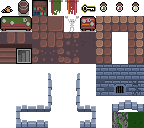
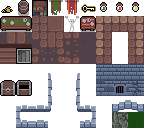
fixed shop, added ShopMan - GOBLIN

Changed region(s): [[0.0, 0.625, 0.2222, 0.75]]

diff --git a/Resources/maps/box.tsx b/Resources/maps/box.tsx
@@ -1,0 +1,4 @@
+<?xml version="1.0" encoding="UTF-8"?>
+<tileset version="1.4" tiledversion="1.4.2" name="box" tilewidth="16" tileheight="16" tilecount="2" columns="2">
+ <image source="box.png" width="32" height="16"/>
+</tileset>

diff --git a/Classes/Store.cpp b/Classes/Store.cpp
@@ -13,9 +13,60 @@ bool Store::init(TMXTiledMap* map, int countMap) {
 
 	store = TMXTiledMap::create("maps/store.tmx");
 	store->setScale(3.0);
-	store->setAnchorPoint(Vec2(1, 1));
-	store->setPosition(Vec2(posMap.x + (sizeMap.width / 2 * 60), posMap.y + (sizeMap.height / 2 * 60)));
+	store->setPosition(Vec2(posMap.x + ((sizeMap.width / 2 - 2) * 60), posMap.y + ((sizeMap.height / 2 + 1) * 60)));
 
 	this->addChild(store);
+
+	shopMan = new Sprite();
+	shopMan->initWithFile("NPC/store/shopMan.png");
+	shopMan->getTexture()->setAliasTexParameters();
+	shopMan->setPosition(Vec2(store->getPosition().x + 100, store->getPosition().y + 100));
+	shopMan->setScale(2.5);
+	this->addChild(shopMan);
+
+	createTray(store, 3);
+
 	return true;
+}
+
+void Store::createTray(TMXTiledMap* storeMap, int count) {
+	auto posMap = storeMap->getPosition();
+	for (int i = 0; i < count; i++) {
+		tray = new Sprite();
+		tray->initWithFile("NPC/store/table.png");
+		tray->getTexture()->setAliasTexParameters();
+		tray->setScale(3.0);
+		tray->setPosition(Vec2((posMap.x + i * 120) - 30, posMap.y - 80));
+		this->addChild(tray);
+
+		auto edgeNode = Node::create();
+		edgeNode->setScale(2.0);
+		edgeNode->setAnchorPoint(Vec2(0.5, 0.5));
+		edgeNode->setPosition(tray->getPosition());
+		auto body = PhysicHelper::createWallPhysicBody(edgeNode, Size(tray->getContentSize()));
+		this->addChild(edgeNode);
+
+		Item* item;
+		if (rand() % 2) {
+			std::map<std::string, int> stats{
+			{"healing", -20 + rand() % 40}
+			};
+			item = Item::create(Item::POTION, "Potion", "Super potion", "res/items/potion.png", stats);
+			item->setColor(Color3B(rand() % 255, rand() % 255, rand() % 255));
+		}
+		else {
+			std::map<std::string, int> stats{
+			{"damage", 1 + rand() % 40},
+			{"speed", 1 + rand() % 8}
+			};
+			item = Item::create(Item::WEAPON, "Sword", "Super sword", "res/weapon/sword.png", stats);
+		}
+		this->addChild(item);
+		item->setPosition(Vec2(tray->getPosition().x, tray->getPosition().y + 10));
+
+	}
+}
+
+TMXTiledMap* Store::getMap() {
+	return store;
 }

diff --git a/Classes/Generation_map.cpp b/Classes/Generation_map.cpp
@@ -134,6 +134,8 @@ void Generation_map::generation(bool checkLoc) {
 
     generMapOne(tileHallMU, 2, checkLoc);
 
+    createStore();
+
     delete[] arrayMap;
 }
 
@@ -510,7 +512,7 @@ std::vector<Unit*> Generation_map::checkRoom(Unit* player, std::vector<Unit*> en
 
 std::vector<Unit*> Generation_map::createEnemy(std::vector<Unit*> enemies, TMXTiledMap* tiled, Unit* player) {
     srand(time(0));
-    int count = 1 + rand() % 8;
+    int count = 0 + rand() % 1;
     Enemy* enemy;
     for (int i = 0; i < count; i++) {
         int enemyType = 1 + rand() % 3;
@@ -541,4 +543,16 @@ std::vector<Unit*> Generation_map::createEnemy(std::vector<Unit*> enemies, TMXTi
         enemies.push_back(enemy);
     }
     return enemies;
+}
+
+void Generation_map::createStore() {
+    srand(time(0));
+    auto countMap = allMapOne.size();
+    auto mapLocation = 2 + rand() % (countMap - 2);
+    store = Store::createScene(allMapOne[2], countMap);
+    this->addChild(store);
+
+    auto storeMap = store->getMap();
+
+    border(storeMap);
 }

diff --git a/Classes/Generation_map.h b/Classes/Generation_map.h
@@ -3,13 +3,14 @@
 #include <vector>
 #include <Slime.h>
 #include <Goblin.h>
+#include <Store.h>
 USING_NS_CC;
 #define SIZE_MAP 5;
 
 class Generation_map: public Layer {
 public:
 	static Generation_map* createScene(bool checkLoc);
-
+    
     void generation(bool checkLoc);
     void border(TMXTiledMap* tiled);
     void borderForRoom(TMXTiledMap* tiled);
@@ -26,9 +27,13 @@ public:
     std::vector<Unit*> checkRoom(Unit* player, std::vector<Unit*> enemies, bool checkLoc);
     std::vector<Unit*> createEnemy(std::vector<Unit*> enemies, TMXTiledMap* tiled, Unit* player);
 
+    void createStore();
+
 private:
     bool init(bool checkLoc);
     int** generationArrayMap(int sizeMap);
+
+    Store* store;
 
     TMXTiledMap* tileMap;
     TMXTiledMap* tileHallML;

diff --git a/Classes/GameScene.cpp b/Classes/GameScene.cpp
@@ -42,7 +42,7 @@ bool GameScene::init()
     {
         return false;
     }
-    srand(time(0));
+    
     Size visibleSize = Director::getInstance()->getVisibleSize();
     Vec2 origin = Director::getInstance()->getVisibleOrigin();
 
@@ -53,12 +53,6 @@ bool GameScene::init()
     
     generation = Generation_map::createScene(checkMap);
     this->addChild(generation);
-
-    auto mappppp = generation->getAllMapOne();
-    auto countMap = mappppp.size();
-    auto mapLocation = 2 + rand() % (countMap - 2);
-    store = Store::createScene(mappppp[mapLocation], countMap);
-    this->addChild(store);
 
     visibleSize.height = -1250;
     player = Player::create(this, Vec2(visibleSize.width / 4 + origin.x, visibleSize.height / 2 + origin.y));

diff --git a/Classes/Store.h b/Classes/Store.h
@@ -1,13 +1,20 @@
 #pragma once
 #include <cocos2d.h>
 #include "2d/CCFastTMXLayer.h"
+#include "PhysicHelper.h"
+#include "Item.h"
 USING_NS_CC;
 
-class Store : public Layer {
+class Store : public Node {
 public:
 	static Store* createScene(TMXTiledMap* map, int countMap);
+	TMXTiledMap* getMap();
+	void createTray(TMXTiledMap* storeMap, int count);
 private:
 	bool init(TMXTiledMap* map, int countMap);
 	TMXTiledMap* store;
 	TMXTiledMap* MapOne;
+	Sprite* sprite;
+	Sprite* shopMan;
+	Sprite* tray;
 };

diff --git a/Classes/GameScene.h b/Classes/GameScene.h
@@ -6,7 +6,6 @@
 #include "InputListener.h"
 #include "HUD.h"
 #include "Generation_map.h"
-#include "Store.h"
 
 USING_NS_CC;
 
@@ -17,7 +16,6 @@ public:
     HUD* hud;
     Unit* slime;
     Generation_map* generation;
-    Store* store;
 
     static cocos2d::Scene* createScene();
 
